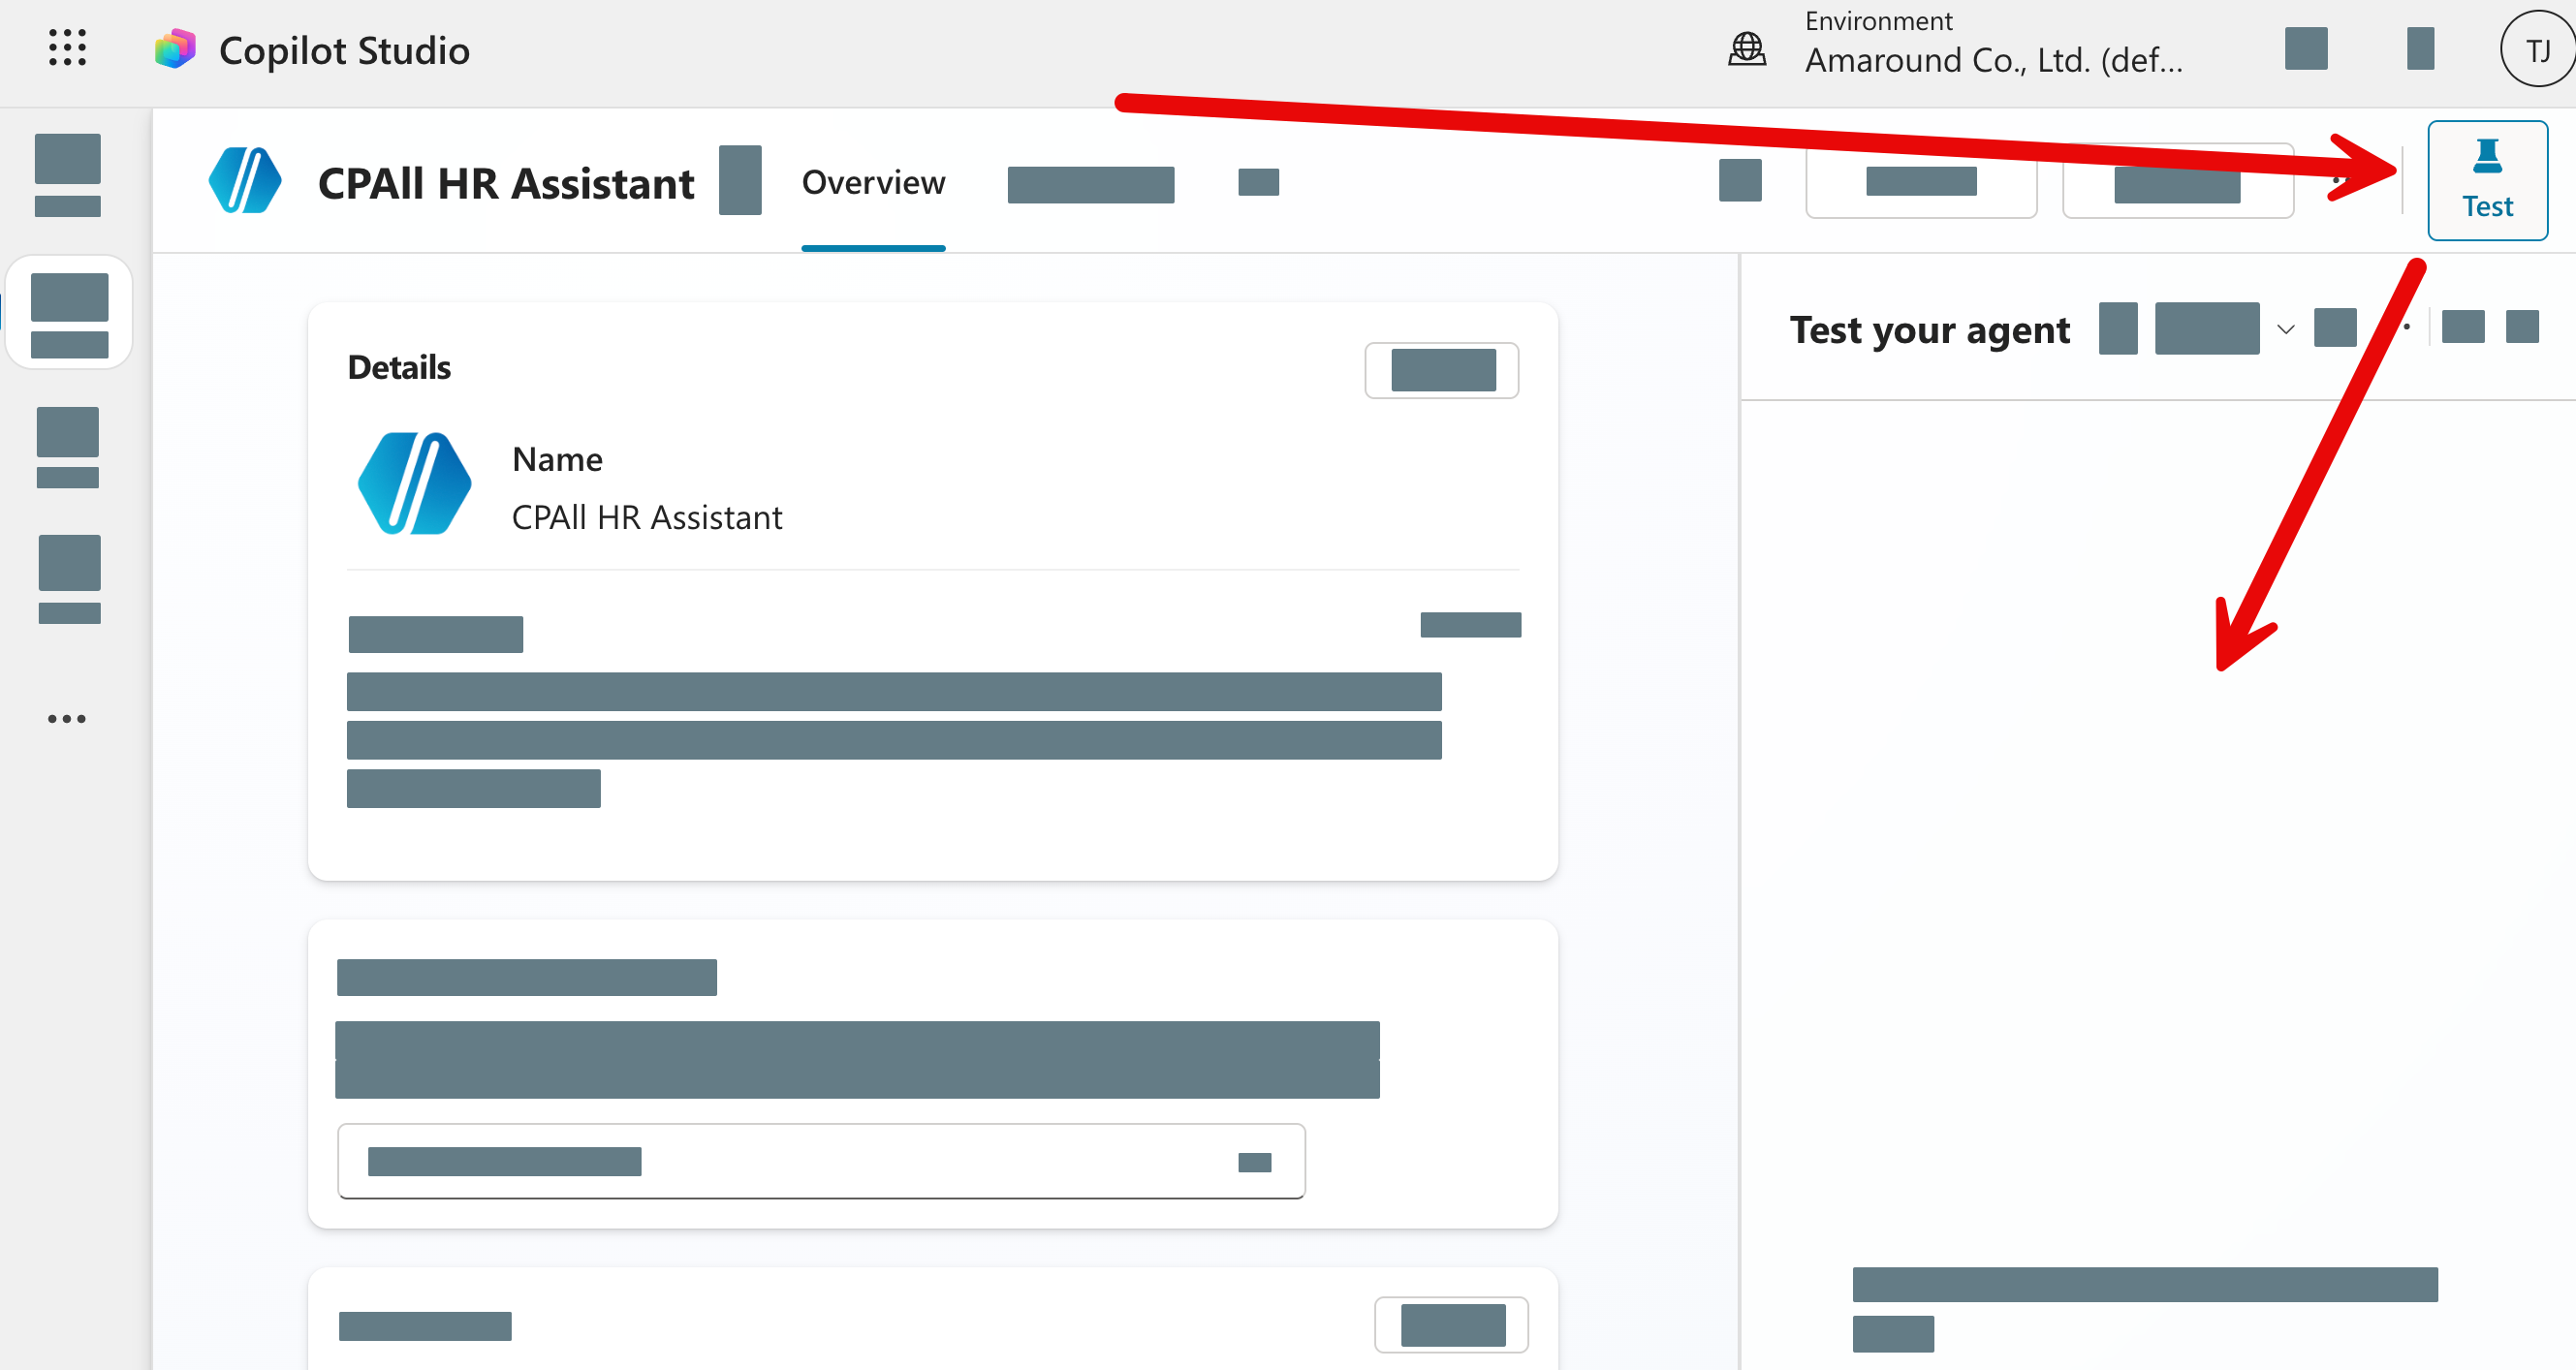
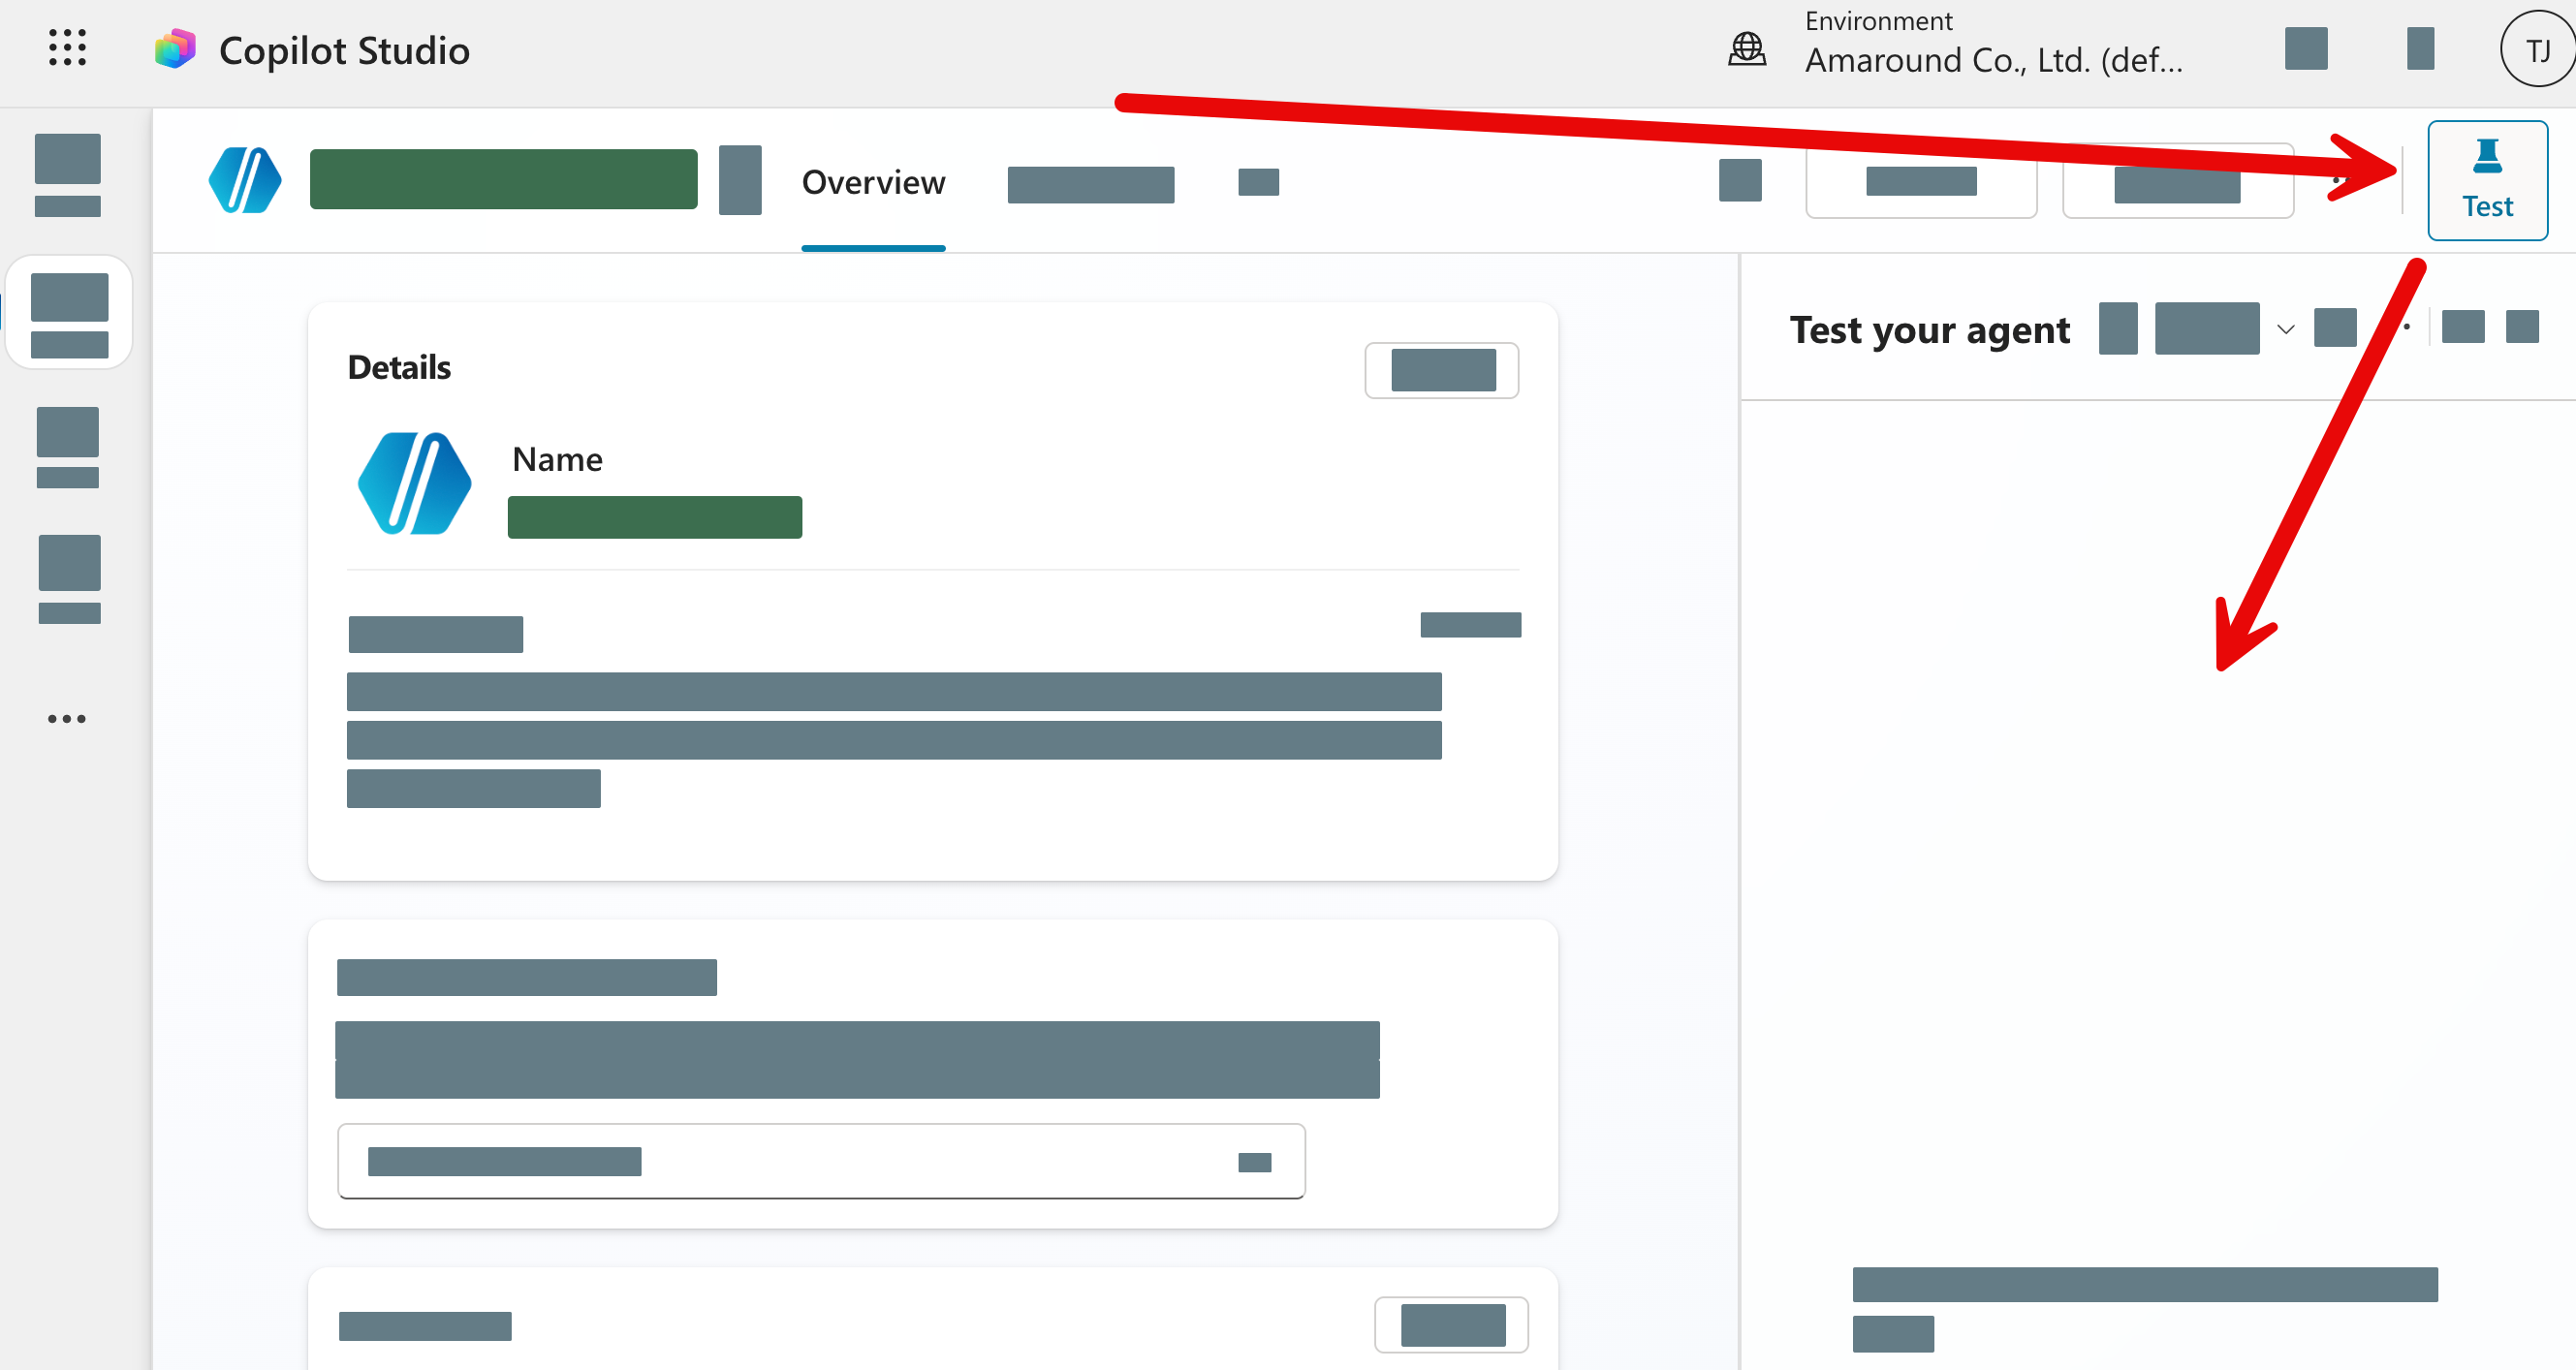
Update images for exercise 2 in module 1

Changed region(s): [[0.0937, 0.0934, 0.281, 0.1556], [0.1874, 0.3423, 0.3123, 0.4045]]

diff --git a/exercises/module-1/exercise-2-create-agent/README.md b/exercises/module-1/exercise-2-create-agent/README.md
@@ -40,14 +40,14 @@
    You are a helpful HR assistant for CPAll employees. You help employees understand expense claim policy, and provide organization news or announcements. 
    ```
 
-2. Copilot Studio จะตอบรับและสรุปขอบเขตการทำงานของ Agent ให้ จากนั้นจะมีการกำหนดชื่อชั่วคราวให้ Agent นี้ เช่น "HR Assistant" หรือ "CPAll HR Bot" ขึ้นอยู่กับระบบ
+2. Copilot Studio จะตอบรับและสรุปขอบเขตการทำงานของ Agent ให้ จากนั้นจะมีการกำหนดชื่อชั่วคราวให้ Agent นี้ เช่น "HR Assistant" หรือ "HR Bot" ขึ้นอยู่กับระบบ
 
    ![ภาพสรุปหน้าที่ Agent](./images/draft-agent.png)
 
 3. กดปุ่ม Edit และตั้งชื่อ Agent ว่า:
 
    ```
-   CPAll HR Assistant [ชื่อตัวเอง]
+   PTT HR Assistant [ชื่อตัวเอง]
    ```
 
 4. กด ปุ่ม Save และรอให้ระบบยืนยัน